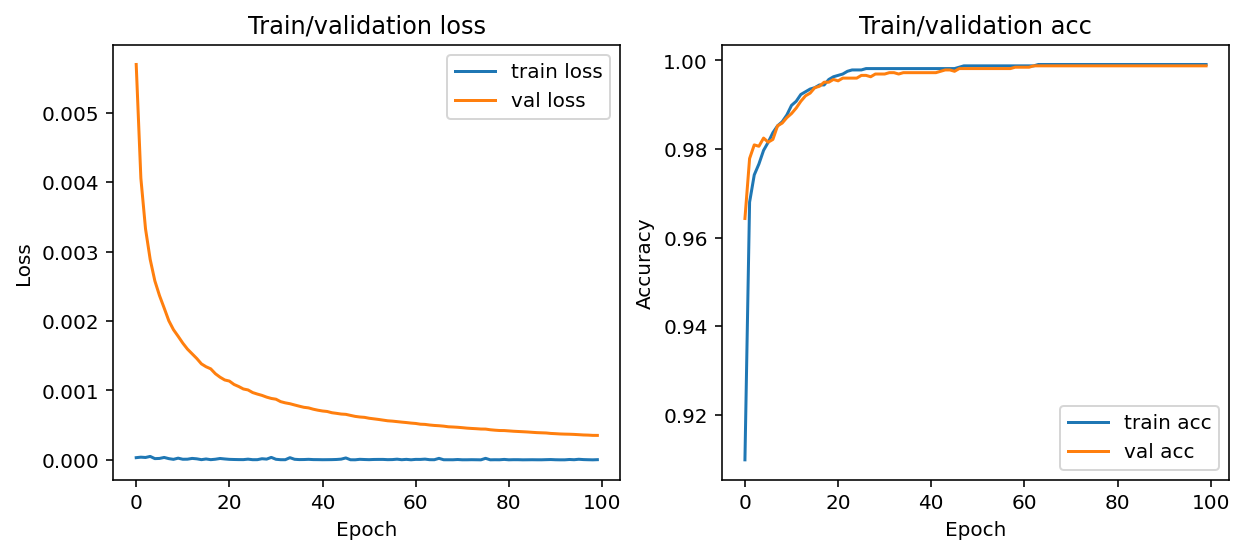
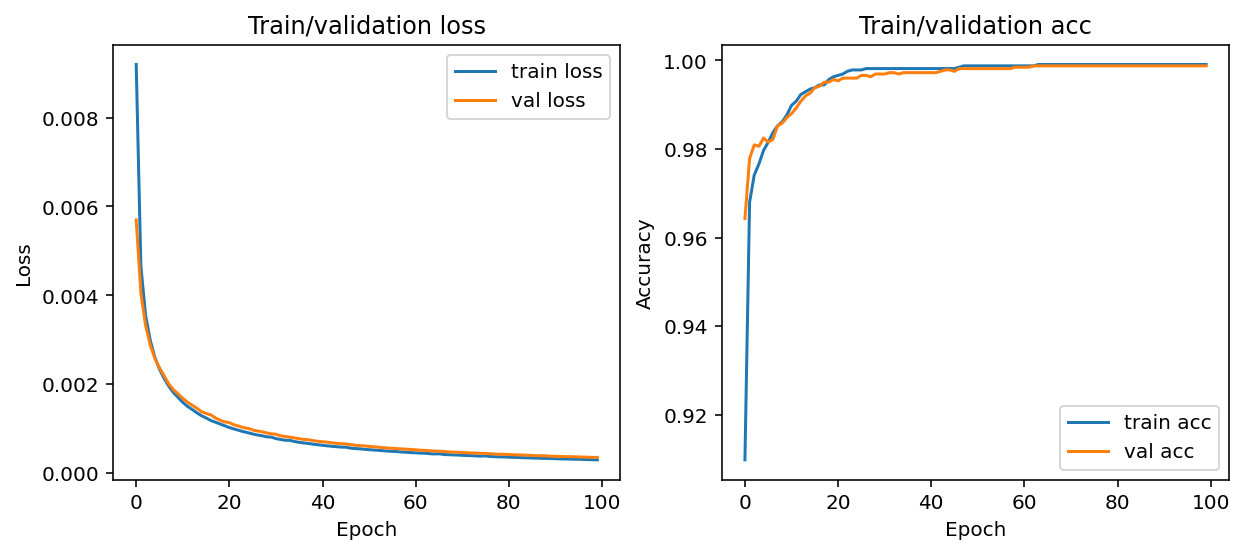
Fix loss logging

diff --git a/train_autodiff.py b/train_autodiff.py
@@ -68,7 +68,7 @@ def train(model, optimizer, dataloader):
         correct += torch.sigmoid(output).round().eq(y).sum().item()
         loss.backward()
         optimizer.step()
-    return (loss.item(), correct)
+    return (loss_, correct)
 
 
 def evaluate(model, dataloader):

diff --git a/README.md b/README.md
@@ -35,9 +35,9 @@ Auto diff:
 Vanilla:
 |                  | Cross-entropy loss | Accuracy |
 | :--------------: | :----------------: | :------: |
-|   Train (3249)   |       0.0042       |  0.9997  |
-| Validation (813) |       0.0059       |  0.9988  |
-|   Test (4062)    |       0.0044       |  0.9993  |
+|   Train (3249)   |       0.0002       |  0.9997  |
+| Validation (813) |       0.0004       |  0.9988  |
+|   Test (4062)    |       0.0004       |  0.9993  |
 
 ![](figures/vanilla.png)
 
